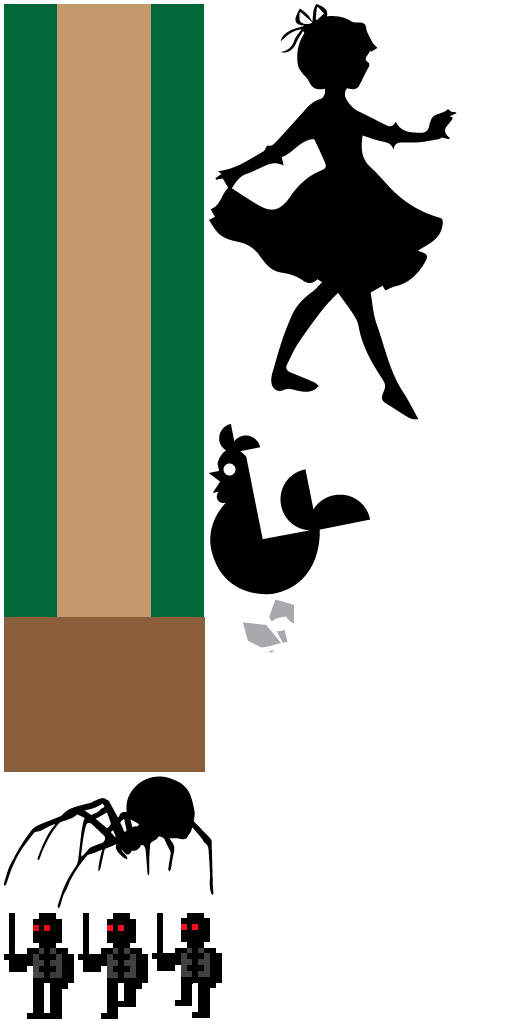
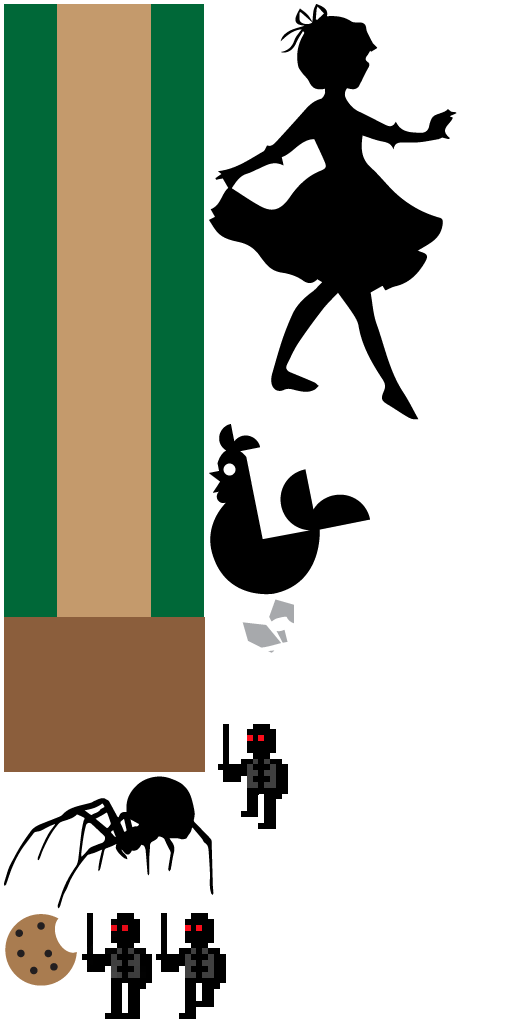
Adds cookies!

Changed region(s): [[0.0, 0.875, 0.4375, 1.0], [0.4062, 0.6875, 0.5625, 0.8125]]

diff --git a/Insomnia.Shared/Screens/TheGameScreen.cs b/Insomnia.Shared/Screens/TheGameScreen.cs
@@ -20,6 +20,7 @@ namespace Insomnia.Shared
 		Player girl = new Player ();
 		PlayerHelper helper = new PlayerHelper ();
 		List<Actor> baddies = new List<Actor>();
+		Baddie aCookie = new Baddie ();
 
 		float timeSinceLastBaddie = 0;
 
@@ -35,12 +36,18 @@ namespace Insomnia.Shared
 			girl.Sprites = new GameSprite[] { new GameSprite (spriteSheet, spriteRects ["girl"]) };
 			girl.Location = new Vector2 (50, 250);
 			girl.MoveSpeed = new Vector2 (40, 0);
+			girl.Baddies = baddies;
 
 			helper.Sprites = new GameSprite[] { new GameSprite (spriteSheet, spriteRects ["fairy"]) };
 			helper.Location = new Vector2 (50, 475);
 			helper.Tint = Color.Yellow;
 			helper.TrackActor = girl;
 			helper.Baddies = baddies;
+
+			aCookie.Sprites = new GameSprite[] { new GameSprite (spriteSheet, spriteRects ["cookie"]) };
+			aCookie.Location = new Vector2 (550, 550);
+			aCookie.Attack = -1;
+			baddies.Add (aCookie);
 
 //			Baddie spider = new Baddie ();
 //			spider.Sprites = new GameSprite[] { new GameSprite (spriteSheet, spriteRects ["spider"]) };
@@ -57,6 +64,11 @@ namespace Insomnia.Shared
 		public override void Update (GameTime gameTime)
 		{
 			base.Update (gameTime);
+
+			if (girl.Health < 1) {
+				ScreenUtil.Show (new CreditsScreen (Parent));
+				return;
+			}
 
 			float elapsed = (float)gameTime.ElapsedGameTime.TotalSeconds;
 			timeSinceLastBaddie += elapsed;
@@ -107,19 +119,30 @@ namespace Insomnia.Shared
 		{
 			base.Draw (gameTime, spriteBatch);
 
-			var loc = Vector2.Zero;
+			drawBackground (spriteBatch);
+				
+			girl.Draw (gameTime, spriteBatch);
+			foreach (var baddie in baddies) {
+				baddie.Draw (gameTime, spriteBatch);
+			}
+			helper.Draw (gameTime, spriteBatch);
+
+			drawFairyLight (spriteBatch);
+
+			drawPlayerHealth (spriteBatch);
+		}
+
+		private void drawBackground(SpriteBatch spriteBatch) {
+			var loc = girl.locWorld;
 			var rect = spriteRects ["background"];
+
+			while (loc.X < -rect.Width) {
+				loc.X += rect.Width;
+			}
+
 			while (loc.X < GraphicsDevice.Viewport.Width) {
 				spriteBatch.Draw (spriteSheet, loc, rect, Color.White);
 				loc.X += 200;
-			}
-				
-			drawFairyLight (spriteBatch);
-
-			girl.Draw (gameTime, spriteBatch);
-			helper.Draw (gameTime, spriteBatch);
-			foreach (var baddie in baddies) {
-				baddie.Draw (gameTime, spriteBatch);
 			}
 		}
 
@@ -141,6 +164,21 @@ namespace Insomnia.Shared
 					(int)(helper.Location.Y + helper.deltaLocation.Y - 139)), 
 				new Rectangle (512, 0, 20, 20), 
 				tint);
+		}
+
+		private void drawPlayerHealth(SpriteBatch spriteBatch) {
+			var rect = spriteRects ["cookie"];
+			var loc = Vector2.One * 10;
+			var locDelta = new Vector2 (rect.Width + 20, 0);
+			for (int i = 0; i < 3; i++) {
+				var tint = i < girl.Health ? Color.White : Color.DarkGray;
+				spriteBatch.Draw (
+					spriteSheet, 
+					new Rectangle((int)loc.X, (int)loc.Y, rect.Width, rect.Height),
+					rect,
+					tint);
+				loc += locDelta;
+			}
 		}
 
 		public void CullBaddies() {

diff --git a/Insomnia.Shared/Actors/Player.cs b/Insomnia.Shared/Actors/Player.cs
@@ -1,4 +1,5 @@
 using System;
+using System.Collections.Generic;
 
 using Microsoft.Xna.Framework;
 using Microsoft.Xna.Framework.Graphics;
@@ -12,6 +13,8 @@ namespace Insomnia.Shared
 	{
 		public PlayerIndex PlayerIndex { get; set; }
 		public Vector2 MoveSpeed { get; set; }
+		public List<Actor> Baddies { get; set; }
+		public Vector2 locWorld = Vector2.Zero;
 
 		public Player () : base()
 		{
@@ -21,22 +24,59 @@ namespace Insomnia.Shared
 		public override void Update (GameTime gameTime)
 		{
 			float elapsed = (float)gameTime.ElapsedGameTime.TotalSeconds;
+			var delta = Vector2.Zero;
 
 			var gamepad = GamePadEx.GetState (PlayerIndex);
 			if (gamepad.IsButtonDown (Buttons.DPadLeft)) {
-				Location = new Vector2(Location.X - MoveSpeed.X * elapsed, Location.Y);
+				delta.X = -MoveSpeed.X * elapsed;
 			}
 			if (gamepad.IsButtonDown (Buttons.DPadRight)) {
-				Location = new Vector2(Location.X + MoveSpeed.X * elapsed, Location.Y);
+				delta.X = MoveSpeed.X * elapsed;
 			}
 			if (gamepad.IsButtonDown (Buttons.DPadUp)) {
-				Location = new Vector2(Location.X, Location.Y - MoveSpeed.Y * elapsed);
+				delta.Y = -MoveSpeed.Y * elapsed;
 			}
 			if (gamepad.IsButtonDown (Buttons.DPadRight)) {
-				Location = new Vector2(Location.X, Location.Y + MoveSpeed.Y * elapsed);
+				delta.Y = MoveSpeed.Y * elapsed;
 			}
 
+			//Location += delta;
+			updateBaddiePosition (-delta);
+			locWorld -= delta;
+
+			checkForCollissions ();
+
 			base.Update (gameTime);
+		}
+
+		private void checkForCollissions() {
+			var rect1 = this.Sprites [CurrentFrame].TextureRect;
+			rect1.X = (int)this.Location.X;
+			rect1.Y = (int)this.Location.Y;
+			foreach (Actor baddie in Baddies) {
+				var rect2 = baddie.Sprites [baddie.CurrentFrame].TextureRect;
+				rect2.X = (int)baddie.Location.X;
+				rect2.Y = (int)baddie.Location.Y;
+				if (rect1.Intersects (rect2) && baddie.IsActive) {
+					this.Health -= baddie.Attack;
+					if (Health > 3) {
+						Health = 3;
+					}
+					if (Health < 0) {
+						Health = 0;
+					}
+					baddie.IsActive = false;
+					break;
+				}
+			}
+		}
+
+		private void updateBaddiePosition(Vector2 delta) {
+			foreach (Actor baddie in Baddies) {
+				if (baddie.IsActive) {
+					baddie.Location += delta;
+				}
+			}
 		}
 
 		public override void Draw (GameTime gameTime, SpriteBatch spriteBatch)

diff --git a/Insomnia.Shared/Actors/PlayerHelper.cs b/Insomnia.Shared/Actors/PlayerHelper.cs
@@ -56,8 +56,7 @@ namespace Insomnia.Shared
 								var rect2 = baddie.Sprites [baddie.CurrentFrame].TextureRect;
 								rect2.X = (int)baddie.Location.X;
 								rect2.Y = (int)baddie.Location.Y;
-								if (rect1.Intersects (rect2) && baddie.IsActive) {
-									// FIXME: BOOM! (always kills, need to fix that!)
+								if (rect1.Intersects (rect2) && baddie.IsActive && baddie.Attack > 0) {
 									if (baddie.Health <= charge) {
 										baddie.IsActive = false;
 										charge -= baddie.Health;
